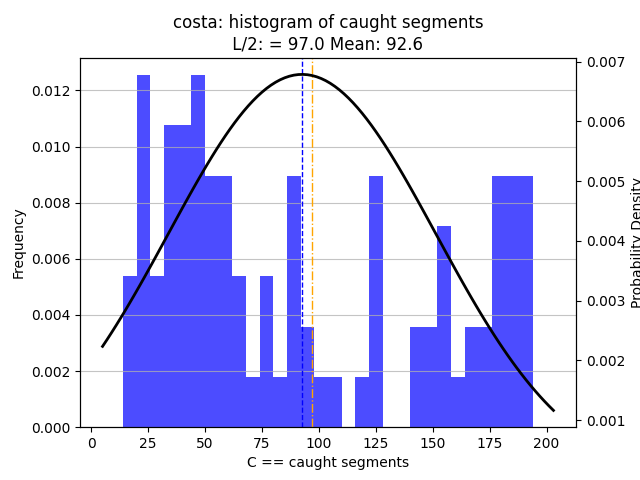
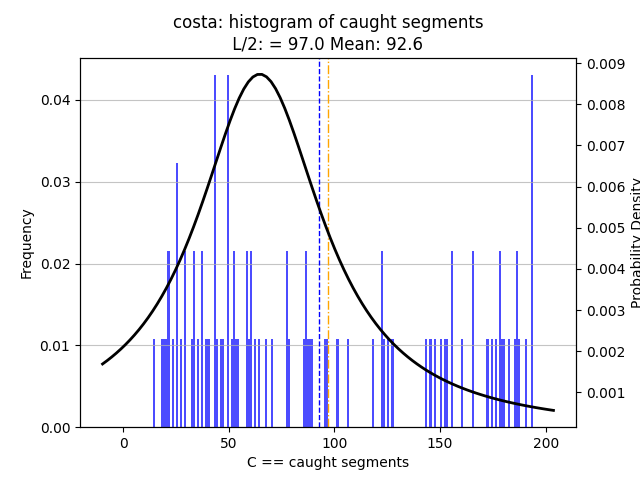
gaussian to cauchy

diff --git a/7e71ecbb7830fd69dc78ba1369a452129b88e980fdbb6d63285fbb8f912f/index.html b/7e71ecbb7830fd69dc78ba1369a452129b88e980fdbb6d63285fbb8f912f/index.html
@@ -118,7 +118,7 @@
             <a href="mbits_vs_catch.html"> Meaning bits vs Catch (Probality to appear in the Tree)</a>
         </li>
         <li>
-            <a href="c_histogram.html"> Historgram of caught segments by subject with fiting gausian distribution</a>
+            <a href="c_histogram.html"> Historgram of caught segments by subject with fiting cauchy distribution</a>
         </li>
         <li>
             <a href="window_average.html"> Looking at each window (rangle of segments) separetly </a>

diff --git a/7e71ecbb7830fd69dc78ba1369a452129b88e980fdbb6d63285fbb8f912f/c_histogram.html b/7e71ecbb7830fd69dc78ba1369a452129b88e980fdbb6d63285fbb8f912f/c_histogram.html
@@ -11,7 +11,7 @@
 <body>
     <header>
         <h1>C histogram</h1>
-        <h3>Historgram of caught segments by subject with fiting gausian distribution
+        <h3>Historgram of caught segments by subject with fiting cauchy distribution
             See code at <a href="https://github.com/Ilyashn972/llm-narrative-analysis/blob/main/experiments/mbits_vs_catch.py">
                 c_histogram.py</a>
         </h3>
